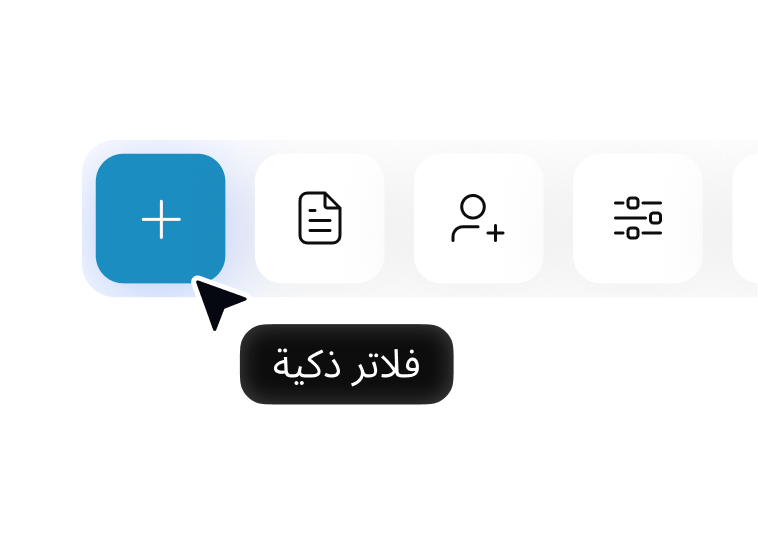
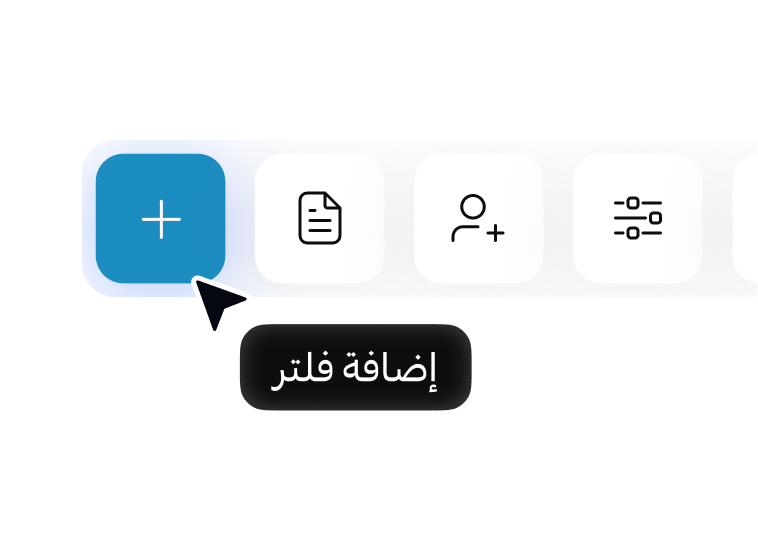
lang fixes, changed imgs, changed button on hero section

Changed region(s): [[0.3034, 0.5938, 0.6372, 0.7812]]

diff --git a/src/components/primitives/button.tsx b/src/components/primitives/button.tsx
@@ -6,7 +6,7 @@ import { useLocale } from 'next-intl'
 
 import { cn } from '@/lib/utils'
 
-const buttonVariants = cva('rounded-full leading-4 font-medium', {
+const buttonVariants = cva('rounded-full leading-4 font-medium transition-all duration-300', {
   variants: {
     variant: {
       primary:
@@ -14,8 +14,10 @@ const buttonVariants = cva('rounded-full leading-4 font-medium', {
       secondary:
         'btn-gradient-secondary bg-white backdrop-blur-[40px] text-black  hover:text-primary-purple hover:shadow-[0px_12px_40px_0px_#A578F240] hover:bg-[#F6F1FE]  active:text-[#8759D5] disabled:pointer-events-none  disabled:bg-opacity-30 disabled:text-opacity-40 disabled:text-white',
       purple:
-        'btn-gradient-purple bg-primary-purple text-white hover:bg-secondary-purple hover:shadow-[0px_12px_30px_0px_#A578F240] active:bg-none active:bg-primary-purple active:shadow-none disabled:pointer-events-none  disabled:bg-opacity-20 disabled:text-opacity-90 '
+        'btn-gradient-purple bg-primary-purple text-white hover:bg-secondary-purple hover:shadow-[0px_12px_30px_0px_#A578F240] active:bg-none active:bg-primary-purple active:shadow-none disabled:pointer-events-none  disabled:bg-opacity-20 disabled:text-opacity-90 ',
+      hero: ' bg-white text-primary-purple border border-secondary-400 hover:bg-primary-purple hover:text-white hover:shadow-[0px_12px_30px_0px_#A578F240] active:bg-none active:bg-secondary-purple active:shadow-none disabled:pointer-events-none  disabled:bg-opacity-20 disabled:text-opacity-90'
     },
+
     size: {
       md: 'h-14 px-6 py-5',
       lg: 'h-16 px-8 py-5'

diff --git a/src/components/Sections/HeroSection/HeroSection.tsx b/src/components/Sections/HeroSection/HeroSection.tsx
@@ -194,7 +194,7 @@ export const HeroSection = ({ loading }: THeroSection) => {
             </Typography>
           </div>
           <a href={`/${locale}/contact-form`} className="">
-            <Button variant="purple" className="w-[195px] max-lg:w-[393px] max-md:w-[343px] h-16">
+            <Button variant="hero" className="w-[210px] max-lg:w-[393px] max-md:w-[343px] h-16">
               {t('bookDemo')}
             </Button>
           </a>
